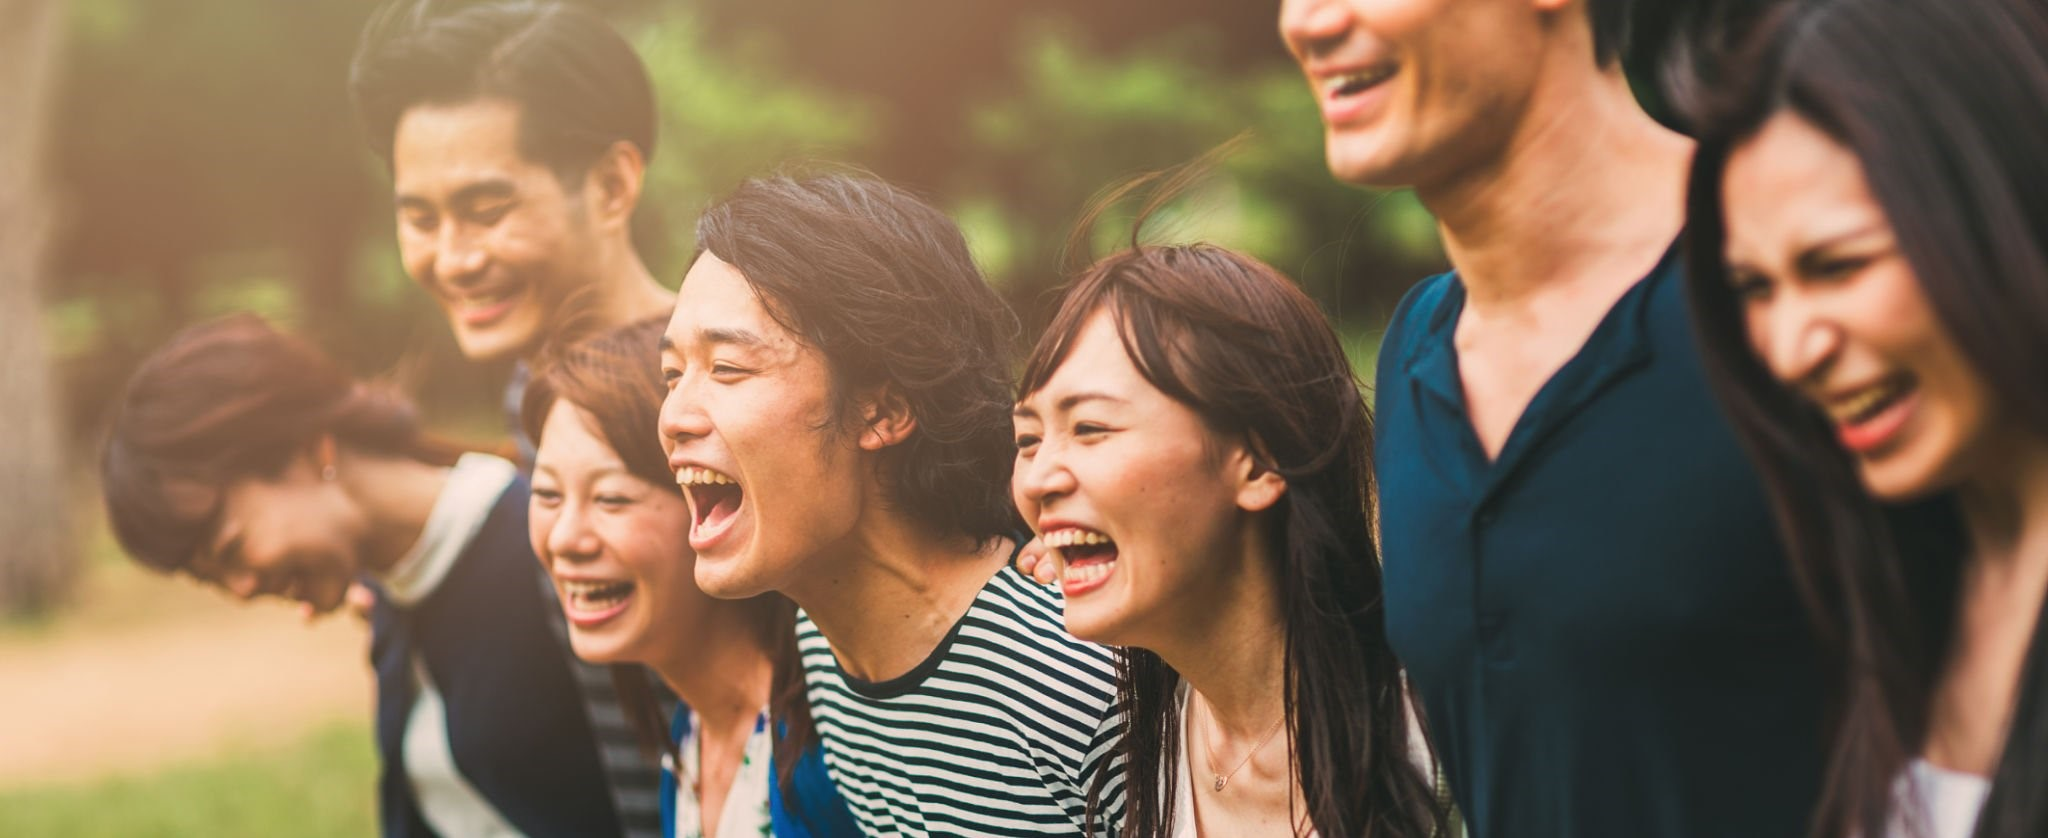
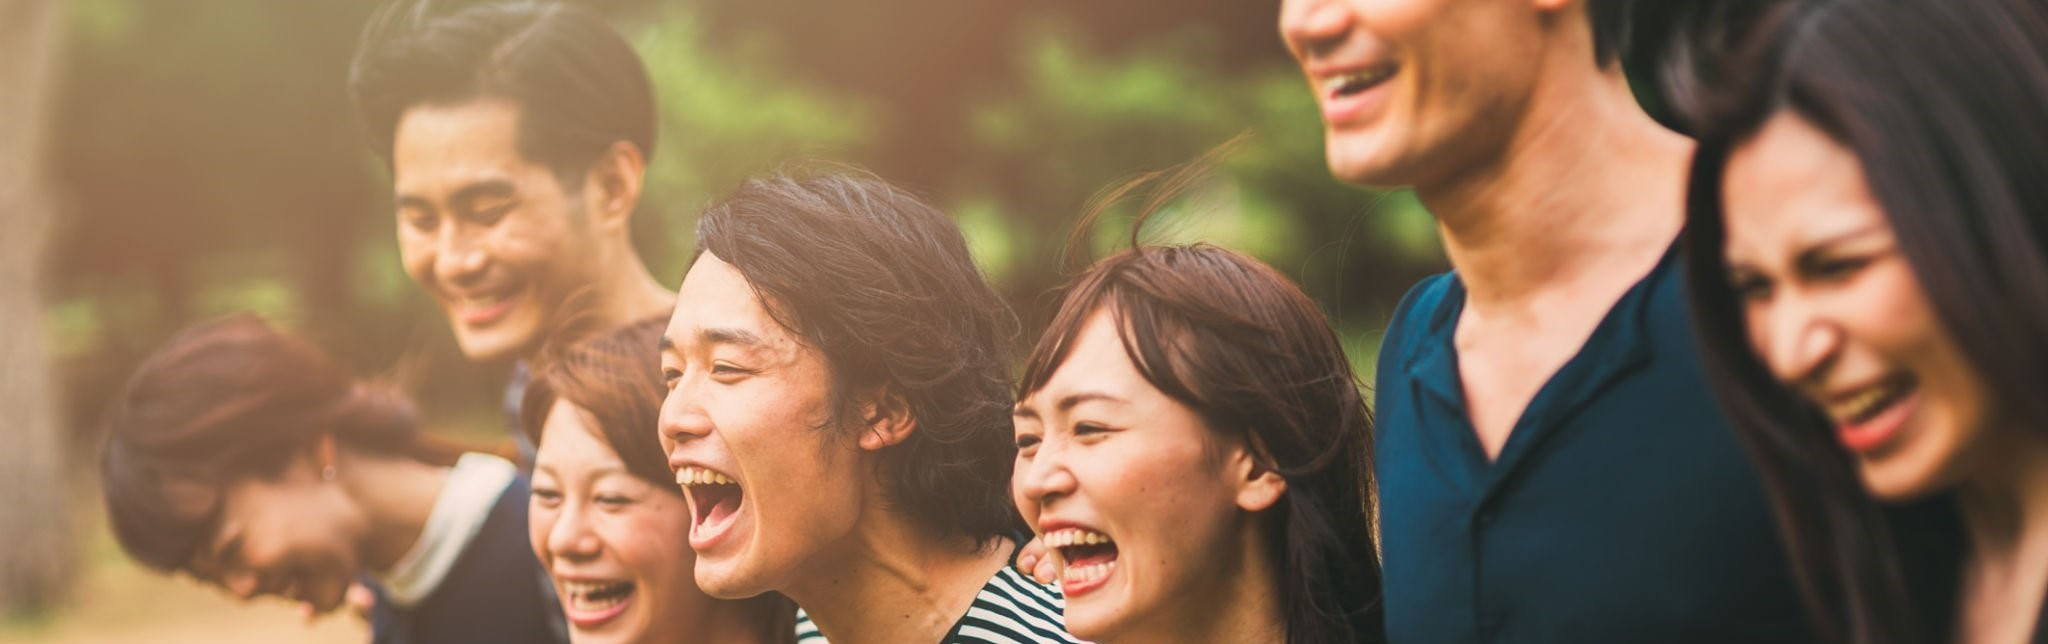
update

diff --git a/css/style.css b/css/style.css
@@ -3,3 +3,151 @@
     padding: 0;
     box-sizing: border-box;
 }
+
+/* Header */
+header{
+    display: flex;
+    position: sticky;
+}
+
+#home{
+    width: 30%;
+    margin: 0;
+    margin-right: 20%;
+}
+
+.colorlogocontainer {
+    display: block;
+    padding-left: 2em;
+    padding-top: 1em;
+    padding-bottom: 1em;
+    overflow: hidden; 
+    max-width: 1000px;
+    min-width: 500px;
+}
+
+.menu{
+    display: flex;
+    flex-flow: row nowrap;
+    justify-content: flex-end;
+}
+
+.menu > a {
+    display: block;
+    padding: 1em;
+}
+
+/*.navigation {
+    display: flex;
+    flex-flow: row wrap;
+    justify-content: flex-end;
+    
+    list-style: none;
+    margin: 0; 
+    background: deepskyblue;
+  }
+  
+  .navigation a {
+    text-decoration: none;
+    display: block;
+    padding: 1em;
+    color: white;
+  }
+  
+  .navigation a:hover {
+    background: #1565C0;
+  }
+  
+  @media all and (max-width: 800px) {
+    .navigation {
+      justify-content: space-around;
+    }
+  }
+  
+@media all and (max-width: 600px) {
+    .navigation {
+      flex-flow: column wrap;
+      padding: 0;
+    }
+    .navigation a { 
+      text-align: center; 
+      padding: 10px;
+      border-top: 1px solid rgba(255, 255, 255,0.3); 
+      border-bottom: 1px solid rgba(0, 0, 0, 0.1); 
+    }
+    .navigation li:last-of-type a {
+      border-bottom: none;
+    }
+  }*/
+
+/* Logo styling */
+
+.headerlogo {
+    display: block;
+    max-width: 10%; 
+    height: auto; 
+    margin-right: 5%;
+    float: left; 
+}
+
+/* Home */
+
+.imagecontainer {
+    position: relative;
+    width: 100%;
+    max-width: 100%; 
+    overflow: hidden;
+}
+
+.groupwalk {
+    width: 100%;
+    height: auto;
+    display: block;
+    border: none; 
+}
+
+.coloroverlay {
+    position: absolute;
+    top: 0;
+    left: 0;
+    width: 100%;
+    height: 100%;
+    background: linear-gradient(rgba(72, 184, 94, 0.7), rgba(60, 173, 211, 0.7)); /* Adjust the colors and opacity as needed */
+    pointer-events: none; 
+
+.overlay-text {
+    position: absolute;
+    top: 50%;
+    left: 50%;
+    transform: translate(-50%, -50%);
+    color: white;
+    font-size: 500%;
+    font-family: "finalsix", sans-serif;
+    font-weight: 600;
+    font-style: normal;
+    text-align: center;
+}
+
+/* About */
+
+
+
+
+/* Event */
+
+
+
+
+/* Merch */
+
+
+
+
+/* Contact */
+
+
+
+
+
+
+/* Media queries */

diff --git a/index.html b/index.html
@@ -9,21 +9,33 @@
 <link rel="stylesheet" href="./css/style.css">
 </head>
 <body>
-    <header>
-        <nav>
-            <div id="colorlogocontainer">
-                <a href="index.html"><img src="./img/color logo.png" alt="Asian Mind Care logo"></a>
+        <header>
+            <div id = "home">
+                <div class="colorlogocontainer">
+                    <img src="./img/color logo.png" alt="AMC Logo" class="headerlogo">
+                </div>
             </div>
-            <div class="menu">
-                <a href="Anna_Pham_About/About.html">About</a>
-                <a href="Anna_Pham_Event/Event.html">Event</a>
-                <a href="Anna_Pham_Merch/Merch.html">Merch</a>
-                <a href="Anna_Pham_Contact/Contact.html">Contact</a>
+            <nav>
+                <div class="menu">
+                    <a href="Anna_Pham_About/About.html">About</a>
+                    <a href="Anna_Pham_Event/Event.html">Event</a>
+                    <a href="Anna_Pham_Merch/Merch.html">Merch</a>
+                    <a href="Anna_Pham_Contact/Contact.html">Contact</a>
+                </div>
+            </nav>
+        </header>
+    <main>
+        <div class="imagecontainer">
+            <img src="./img/group of asian walking.jpg" alt="Overlay Image" class="groupwalk">
+            <div class="coloroverlay"></div>
+            <div class="overlay-text">
+                Welcome to Asian Mind Care
             </div>
-        </nav>
-    </header>
+        </div>
+
+        
 
 
 
-
+    </main>
 </body>

diff --git a/Anna_Pham_Contact/Contact.html b/Anna_Pham_Contact/Contact.html
@@ -10,10 +10,10 @@
 </head>
 <body>
     <header>
+        <div class="colorlogocontainer">
+            <img src="../img/color logo.png" alt="AMC Logo" class="headerlogo">
+        </div>
         <nav>
-            <div id="colorlogocontainer">
-                <a href="../index.html"><img src="./img/color logo.png" alt="Asian Mind Care logo"></a>
-            </div>
             <div class="menu">
                 <a href="../Anna_Pham_About/About.html">About</a>
                 <a href="../Anna_Pham_Event/Event.html">Event</a>

diff --git a/Anna_Pham_Merch/Merch.html b/Anna_Pham_Merch/Merch.html
@@ -10,10 +10,10 @@
 </head>
 <body>
     <header>
+        <div class="colorlogocontainer">
+            <img src="../img/color logo.png" alt="AMC Logo" class="headerlogo">
+        </div>
         <nav>
-            <div id="colorlogocontainer">
-                <a href="../index.html"><img src="./img/color logo.png" alt="Asian Mind Care logo"></a>
-            </div>
             <div class="menu">
                 <a href="../Anna_Pham_About/About.html">About</a>
                 <a href="../Anna_Pham_Event/Event.html">Event</a>

diff --git a/Anna_Pham_About/About.html b/Anna_Pham_About/About.html
@@ -10,10 +10,10 @@
 </head>
 <body>
     <header>
+        <div class="colorlogocontainer">
+            <img src="../img/color logo.png" alt="AMC Logo" class="headerlogo">
+        </div>
         <nav>
-            <div id="colorlogocontainer">
-                <a href="../index.html"><img src="./img/color logo.png" alt="Asian Mind Care logo"></a>
-            </div>
             <div class="menu">
                 <a href="About.html">About</a>
                 <a href="../Anna_Pham_Event/Event.html">Event</a>

diff --git a/Anna_Pham_Event/Event.html b/Anna_Pham_Event/Event.html
@@ -10,10 +10,10 @@
 </head>
 <body>
     <header>
+        <div class="colorlogocontainer">
+            <img src="../img/color logo.png" alt="AMC Logo" class="headerlogo">
+        </div>
         <nav>
-            <div id="colorlogocontainer">
-                <a href="../index.html"><img src="./img/color logo.png" alt="Asian Mind Care logo"></a>
-            </div>
             <div class="menu">
                 <a href="../Anna_Pham_About/About.html">About</a>
                 <a href="Event.html">Event</a>
